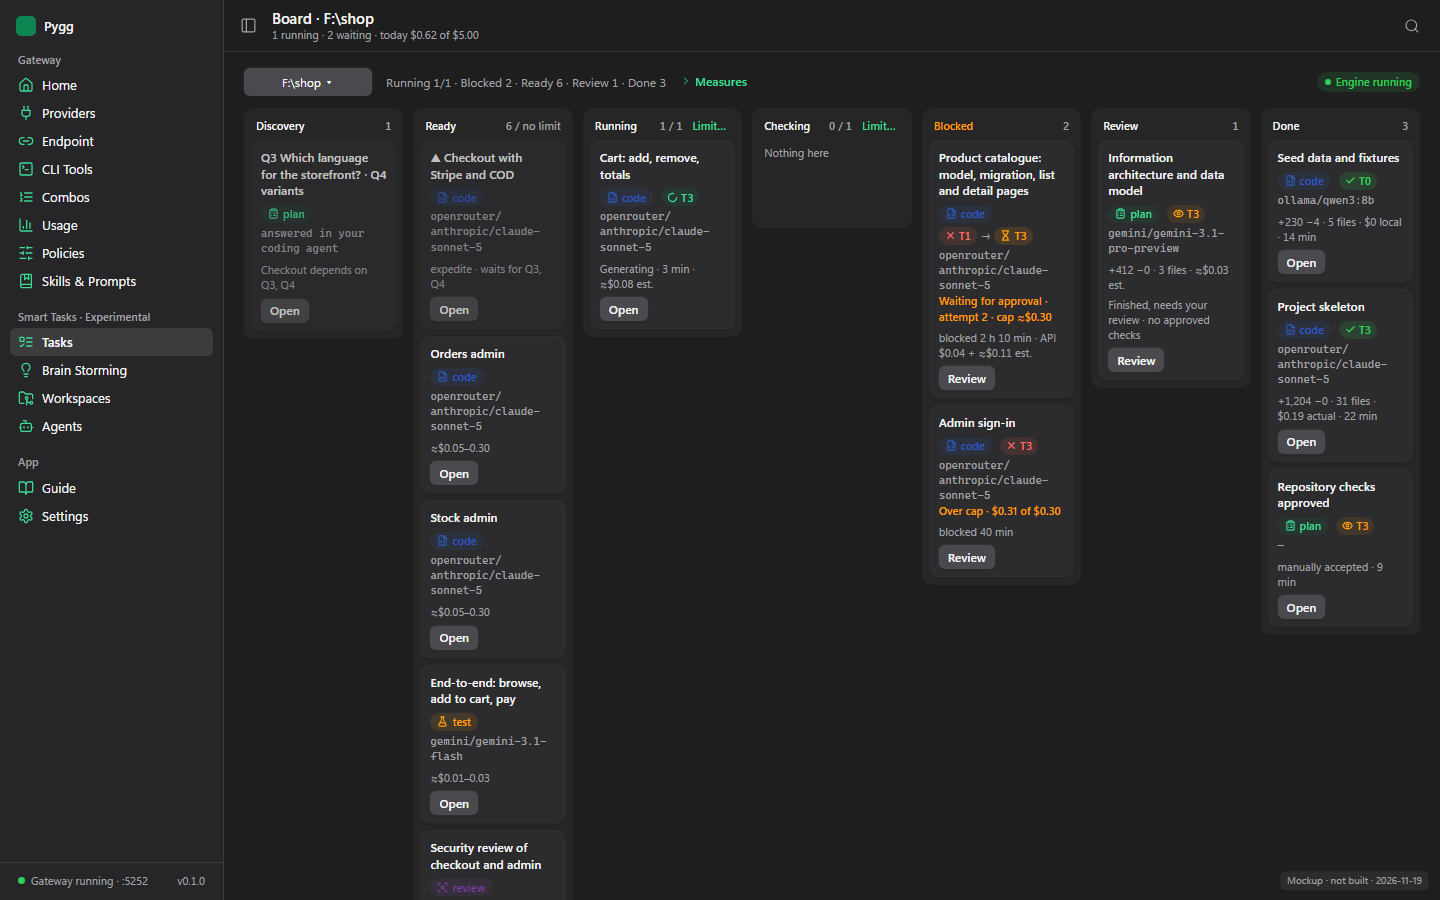
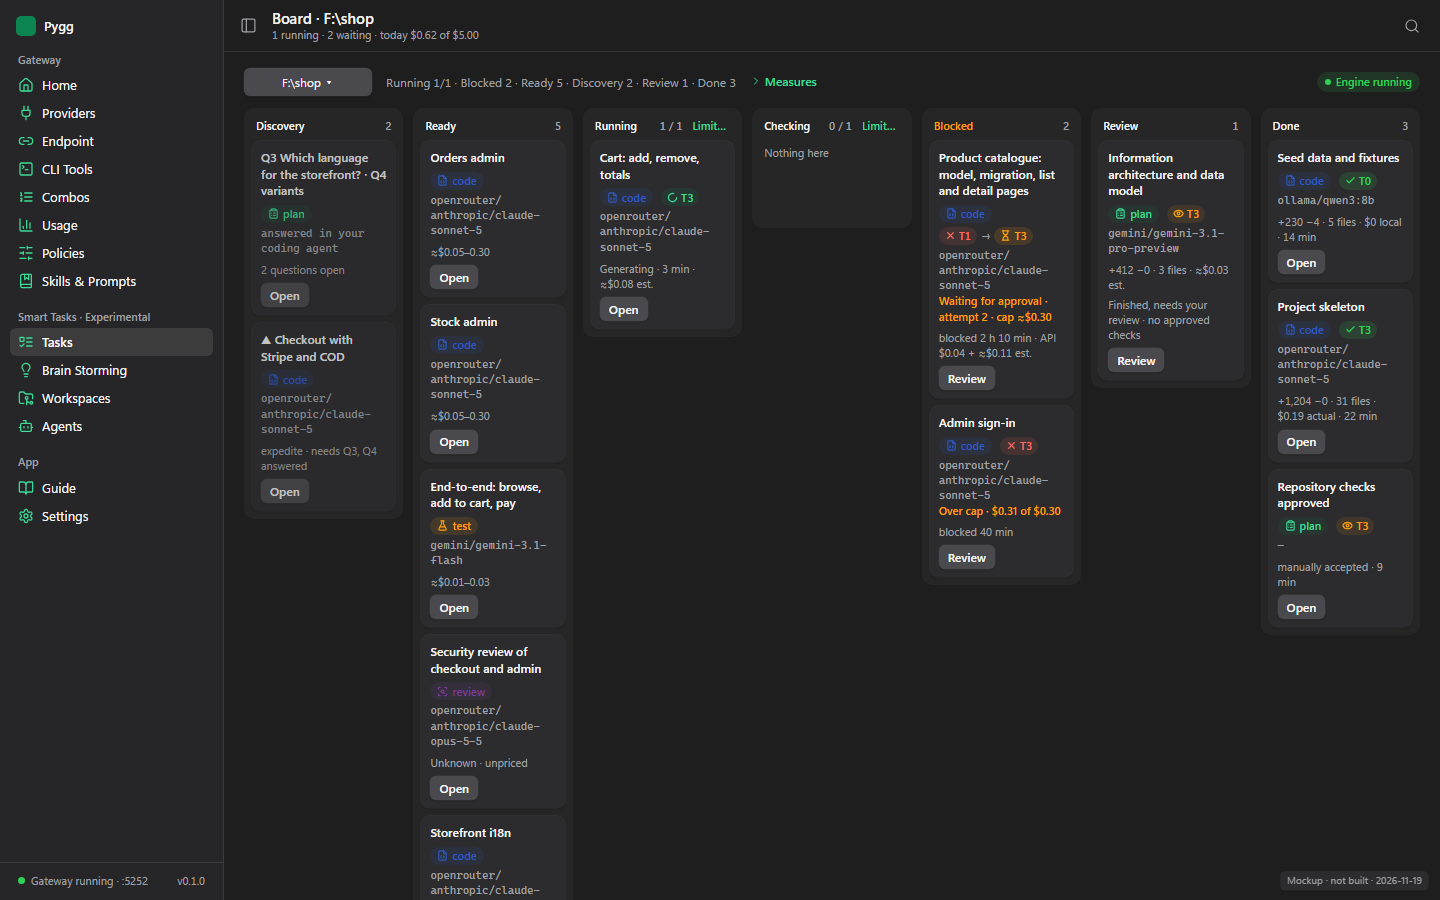
docs(brain): the feed and ranking contracts, and how the Smart Tasks screens link
After a second read-only Codex review before building: the feed file gets place, of, rank, agent, effort and licence per fact; the names map format; the builder's carry-forward of a failed source; ed25519 signing over the exact bytes with key ids and rotation; the release-asset URL on the fixed tag model-facts-v1; the kept file next to the store with its two settings keys; the order within every ranked list; what Off removes (the feed layer only); the ten-attempt own-evidence layer and the phase it fills in; the saved planner skipping the pick.

ADR-042 amended: only Running and Checking carry a WIP limit; the queue columns hold any number of cards. The board mockup moves a card that waits for an answer into Discovery.

A table of how Tasks, Workspaces, Agents and Brain Storming share their rows and which level a value comes from (owner's reminder).

diff --git a/docs/design/BRAIN.md b/docs/design/BRAIN.md
@@ -21,7 +21,11 @@ Each part is useful on its own: the feed improves `auto` and the Providers scree
 | `match` | A model line, as `gateway/tiers.rs` matches it (every part appears in the id), or `{exact: "<provider id>"}` |
 | `role` | `plan`, `code`, `test`, `review`, `image` |
 | `score` | The number the source published, unchanged, with its unit |
-| `rank` | The score's place within that source, 0 to 1, 1 the best. Comparable across sources; `score` is not |
+| `place`, `of` | The row's place in its source (1 is best; rows with the same score share a place: `place` is one more than the number of rows with a strictly better score) and the source's row count |
+| `rank` | `(of − place) / (of − 1)`, so 1 is the best and 0 the worst within that source (1 when `of` is 1). Comparable across sources; `score` is not |
+| `agent` | For Terminal-Bench and SWE-bench, the agent the row was run with (`claude-code`, `codex`, `mini-swe-agent`, …); absent elsewhere |
+| `effort` | The reasoning effort the row was run with, when the source states it (`high`, `max`, …) |
+| `licence` | The source's licence for this row (`Apache-2.0`, `CC-BY-4.0`, `CC-BY-NC-4.0`) |
 | `derived` | `true` when the role is not what the source measured (every `plan` and `review` fact; `test` until a source measures it) |
 | `source` | The source's short name, from the feed's source list |
 | `url` | Where the number was read |
@@ -61,20 +65,27 @@ model-facts/
     facts.json.sig    its signature (ed25519)
 ```
 
-- `names` maps each source's model name to a `match` or an exact provider id. It is kept by hand in the repository and reviewed in a pull request, because leaderboard names (`claude-sonnet-4.5`, `Claude Sonnet 4.5 (thinking)`) are not provider ids.
-- Built by a scheduled workflow in this repository, weekly, from the sources' published data; a build whose sources are unreachable keeps the last facts and marks them.
-- Signed with a key held in the workflow's secrets; the public key is compiled into the app. A feed that does not verify is refused and the last good one kept.
-- Published as a release asset of this repository and fetched over HTTPS. The app checks daily; the user can refresh and can turn fetching off, in which case the tier table alone is used.
+- **The names map**, `model-facts/names.json`, is kept by hand and reviewed in a pull request, because leaderboard names (`Claude 4.5 Opus (high)`, `Claude Opus 5.5 (High)`) are not provider ids. One entry per source and name: `{"<source>": {"<name as the source writes it>": {"match": ["claude", "opus-4-5"], "effort": "high"}}}`. `match` is the line as `gateway/tiers.rs` matches it: every part must appear in the connected model's id, lower-cased, after a router's vendor prefix (`openrouter/anthropic/claude-opus-4-5` matches). Terminal-Bench and Aider rows already carry a `provider/model` id, which the builder turns into `match` parts itself; the map is consulted only for the names it lists. A name the map does not know is written to the build log and left out, never guessed.
+- **Built by `scripts/model-facts.py`** in a scheduled workflow, weekly (and on demand), from the sources' published data. A source that is unreachable or no longer parses keeps its facts from the last published feed, with `observed` unchanged and the source marked `stale` in the source list; the build fails only when every source fails. The 4 MB SWE-bench file is read by the job, never by the app.
+- **Signed** with an ed25519 key: the 32-byte seed is the repository secret `MODEL_FACTS_SIGNING_KEY`, held only in GitHub Actions; the public key is a constant in the app (`gateway/facts.rs`). The signature is over the exact bytes of `facts.json` and is published beside it as `facts.json.sig` (base64). A feed that does not verify, or whose `built` is older than the one already kept, is refused and the kept one stays.
+- **Published** as the assets of one fixed pre-release tag of this repository, `model-facts-v1`, replaced on every build; the app fetches `https://github.com/nambean/Pygg/releases/download/model-facts-v1/facts.json` and its `.sig`. A `v2` of the format gets a new tag and a new app constant; `v1` stays for older apps.
+- **Kept next to the store**, like the models.dev catalog (`reference/model-facts.json`, ADR-031's pattern in `gateway/reference.rs`), with the fetch time in `settings` (`model_facts.fetched_at`), the switch in `settings` (`model_facts.enabled`, on by default), and the public GET carrying nothing about the user. The app checks once a day when the gateway starts or a screen that ranks asks; **Refresh** fetches now. **Off** removes the feed layer only: the user's own evidence and the tier still rank, and the kept file stays for when it is turned on again. Offline, the kept feed is used and its `built` date shown; the screens tell offline ("could not refresh"), stale (a `built` older than the weekly cadence) and refused (signature) apart.
+- **Keys.** The `.sig` file names its key id; the app holds the public keys it trusts by id. Rotation: a release adds the new public key, then the secret changes; the old key is dropped in a later release. A compromised key is dropped in a release and every feed signed by it is refused from then on; a feed never grants trust to a key.
+- **Attribution.** The source list carries each source's licence and the attribution line its licence asks for; the app shows the source's name and link wherever a fact is shown (SCREENS §3.2), and THIRD_PARTY_NOTICES.md lists the sources with their licences.
 
 ### Ranking in the app
 
 For a role, each connected model's line is built from three layers, each shown with its source:
 
-1. **The user's own evidence**, from the ledger: `checks_passed` and `result_kept` for that model on cards of that role (ADR-029), once ten attempts exist. This layer wins.
-2. **The feed**, the best `rank` among the role's sources, with its `derived` label.
+1. **The user's own evidence**, from the ledger: `checks_passed` and `result_kept` for that model on cards of that role (ADR-029), once ten attempts exist; the line is ordered by kept results over attempts, then checks passed over attempts. This layer wins. Until the board exists (phase 4) no attempt carries a role, so this layer is empty and the screens say "your runs: none yet".
+2. **The feed**, the best `rank` among the role's sources that are not older than twelve months, with its `derived` label. Where a source has several rows for one model (agents, efforts), the row whose agent Pygg would run and whose effort the connection sends comes first, else the best row, and the line says which row it is.
 3. **The tier** (`curated:v1` or `price-band:v1`, ADR-006, ADR-031), when nothing else is known.
 
 The interface says which layer a line comes from. A `derived` fact reads "ranked by reasoning (LMArena, 2026-11-12)", never "best for planning". A choice the user saved is kept when the feed changes; the screen shows that a newer fact exists.
+
+**Order within a list** (the role sheet, the planner pick, a role's row): first by the layer that won (own evidence, then feed, then tier); within own evidence by kept rate, then checks-passed rate; within the feed by `rank`; within the tier by tier; then by estimated cost, then by `connection/model`. No tie is asserted; equal numbers stay in that order and both are shown.
+
+**Phases and the store.** Phase 1 (the feed) adds no migration: the feed is a file next to the store, its settings two keys. Saved picks and workspace overrides (the Brain Storming screen) come with `pygg/brain` as one migration (`brain_picks`: scope `global` or a workspace id, role, `connection/model`, saved at). A role on an attempt comes with the board (`attempts.role`, nullable, never inferred for older attempts), and only then does the own-evidence layer fill.
 
 ## 2. `pygg/brain`
 
@@ -87,7 +98,7 @@ The reply is one assistant message holding:
 - the brainstorm's id and the app's link to it;
 - the clarifying questions, numbered;
 - the proposed cards, each with its role, its done criterion and the model picked;
-- what the proposal would cost at most, from the role models' prices and the last ten runs; Unknown where a price is unknown.
+- the known estimate: the sum of each card's cost range from the last ten runs of its agent and model, with the count of cards that have no price (section 4.1: never called a ceiling).
 
 A second call in the same session, with answers in the conversation, refines that brainstorm: the questions it answers close, cards change. It never starts another brainstorm; a new session does.
 
@@ -234,7 +245,7 @@ The app is read-mostly: pick, edit, approve, raise a limit, expedite, approve a 
 - **Remember this planner** (on by default; saves it as the plan role on the Brain Storming screen, 4.7b). Buttons **Decline** and **Use <connection/model>**.
 - After the pick the planner call starts; the proposal reaches the client on its next call or `wait`, and the app's row turns **Thinking**.
 - With no eligible candidate: the reasons grouped by connection, as `auto`'s 422 gives them, and nothing to click but **Decline**.
-- A free or local candidate at the top skips this state.
+- A free or local candidate at the top skips this state. So does a **saved planner**, paid or not: the pick is asked only when nothing is saved and the rule's pick is paid. A saved planner that is no longer eligible brings the state back, with the reason.
 
 **Questions:** a read-only list, each **open** or **answered** with the answer, who answered (the client) and when. The caption says answers come from the coding agent. A card that depends on an open question shows a lock.
 
@@ -256,7 +267,7 @@ Used by the planner pick, a card's **Change…**, and a model's facts on Provide
 - Header: `Models for code · facts as of 2026-11-18 · Refresh`, search, and **Eligible under my policy** / **All connections**.
 - One row per model: `connection/model · tier · billing · ≈$ range`, then **one evidence line**, the layer that won: `your runs 8/10 kept · 9/10 checks passed`, or `Terminal-Bench 4.0 #3 of 73 · 61.2% ±3.1 · 2026-06-30`, or `LMArena hard prompts #5 · derived · 2026-11-18`, or `tier only`. A source's name links to its URL.
 - **Why this model?** on a row opens a disclosure: the chain `your saved pick › your runs (10+ attempts) › facts feed › tier`, with the layer that won marked; every other source line with its date, CI or sample, and a one-line statement of what it measures and does not ("Terminal-Bench: tasks solved in a terminal with an agent, not your repository"); a fact older than twelve months, shown and marked as not ranking.
-- Sorted by the winning layer, then cost. Uncertainty is shown as the source publishes it; the sheet asserts no tie and changes no rule.
+- Sorted as section 1 says: the winning layer, then that layer's measure, then cost, then the id. Uncertainty is shown as the source publishes it; the sheet asserts no tie and changes no rule.
 - Below a rule, **Not eligible** with each model's reason, as `auto` gives them.
 - States: no feed yet or fetching off ("ranked by tier; facts off" with **Turn on**); a stale cached feed (its date, and "could not refresh" when a refresh failed); no match for the search; no eligible model; a saved pick whose model is no longer eligible (kept, marked, a new pick needed).
 - Stress: 40 rows with 90-character ids and long localised labels; ids wrap, actions stack under the row at 683 px.
@@ -266,10 +277,10 @@ Used by the planner pick, a card's **Change…**, and a model's facts on Provide
 One board per workspace, a workspace switcher when there are several. Reached from the Tasks list or a brainstorm's **Open Board**.
 
 - **Header:** workspace; `Running 1/1 · Blocked 2 · Ready 6 · Done 3`; **Measures** as a disclosure (cycle time median, cards done today, time blocked today, known money per kept result, each with its source), shown only once five cards are done; the engine's state and **Start** beside the controls when it is stopped, in place, not a banner (SCREENS §1).
-- **Columns:** the seven of ADR-042, each header `name · count/limit` with **Limit…**; defaults Running 1, Checking 1, the others none. A limit can be raised or set, never removed from Running.
+- **Columns:** the seven of ADR-042. Running and Checking show `count/limit` with **Limit…**, default 1, raised but never removed; the queue columns show their count. A card that depends on an unanswered question sits in **Discovery** (ADR-042), never in Ready.
 - **Card:** title, role chip, `connection/model` (wraps; the full id and everything else in the card's detail), the attempt sequence chips, elapsed time or cost so far, ▲ for expedite; in Review and Done, `+42 −18 · 6 files`. Blocked cards carry the reason word (Waiting for approval, Over cap, Over budget, Interrupted, Needs an answer, Waiting for your agent) and `blocked 2 h 10 min`. One button per card, from its state: **Review** in Blocked and Review, **Open** elsewhere.
 - **Moves by button, not drag:** **Expedite**, **Send back to Discovery**, **Drop** (confirmed). Running, Checking, Review and Done are the engine's. Buttons name exactly what is allowed; a drag target the engine refuses would teach the wrong model.
-- **Opening a card** opens task detail (SCREENS §5.2) with `‹ Board`.
+- **Opening a card** opens task detail (SCREENS §5.2) with `‹ Board`; a cost on a card is the task's cost line, and its source (ledger, the agent's estimate, unknown) is in that detail, as today.
 - **Dependencies:** a card whose prerequisite was dropped shows **Needs an answer** in Blocked with the missing card named; a cycle the planner produced is refused at parse time, so the board never holds one.
 - **Width:** when seven readable columns do not fit the content area (the sidebar takes 224 px; at a 1024 px window that leaves about 114 px per column), the board becomes one list grouped by column, Blocked first, with every action a button. The switch is by available width, not window width, so it holds with the sidebar open and at Windows text scaling (819 and 683 px).
 - **States:** no board yet ("Brainstorms start from your coding agent: ask it to use pygg/brain"); load error with **Try Again**; the engine stopped; a workspace removed (the board is kept read-only, with the reason).
@@ -290,6 +301,21 @@ A screen of its own in the Smart Tasks group (owner, 2026-11-19), so the picks a
 - **Projects that differ:** the workspaces with an override (which roles and limits), **Edit…** and **Use defaults**; other workspaces offer **Override…**. An override holds only what differs.
 - **How it starts:** the reminder that a brainstorm starts from the coding agent with the model `pygg/brain`, with the one-line command per agent. No text box.
 - **States:** no connected model for a role ("nothing eligible for code: connect a provider or loosen the policy"); a saved model no longer eligible (kept, marked, with the reason); facts off (every role row reads "by tier"); stress at 683 px with 90-character ids wrapping under the role chip.
+
+### 4.7c How Tasks, Workspaces, Agents and Brain Storming link
+
+The four screens of the Smart Tasks group share one set of rows; nothing is stored twice.
+
+| From | To | The link |
+| --- | --- | --- |
+| Brain Storming → Tasks | A brainstorm is a row under Tasks (4.3); approving it turns each card into a task row (`tasks.brainstorm_id`, `tasks.card_role`) and the workspace's board (4.6) is those tasks grouped by state | The screen never lists brainstorms itself; **How it starts** points at Tasks |
+| Brain Storming → Workspaces | **Projects that differ** lists workspaces by their `workspaces` row; **Override…** writes `brain_picks` rows scoped to that workspace and nothing else; **Use defaults** deletes them | A workspace row on Workspaces shows "Brain: uses defaults" or "Brain: overrides code, Running 2" with **Edit…** opening the same sheet |
+| Workspaces → the board | A board exists per workspace that has at least one card; the workspace's **approved checks** are every card's definition of Done (ADR-007), its **paid steps per day** and **privacy** apply to every card, and removing the workspace freezes its board read-only | The Workspaces badge counts, as today, workspaces whose checks wait for review; a board with no approved checks sends every card to Review unverified, and the workspace row says so |
+| Tasks → Workspaces | A task row names its workspace; a brainstorm from an IDE carries the repository, which Workspaces adds by itself (SCREENS §5.3) | The **Board** entry in the Tasks filter opens the board of the task list's workspace, or a switcher when there are several |
+| Agents → a card's runner | A card run by the engine runs one of the installed agent CLIs (ADR-026) with the card's model when that agent is pointed at the gateway; the agent for a role is the Brain Storming default (one per role, from the agents Agents lists as installed) | A role whose agent is not installed shows "no agent for code: install one on Agents" on the Brain Storming row, and approval refuses such cards |
+| Settings → budgets | The daily task budget and per-workspace budget stay where they are (Settings, Workspaces); the Brain Storming screen only reads them in the approval line | — |
+
+Precedence for anything that exists at two levels (picks, WIP limits, runner): the workspace's override, then the Brain Storming default, then the rules. A screen always says which level a value came from.
 
 ### 4.8 What the IDE agent reads
 

diff --git a/docs/DECISIONS.md b/docs/DECISIONS.md
@@ -435,7 +435,7 @@ Each `pygg run` launch is kept with what changed in Git (`launches`, schema v38)
 
 **Decision:** An approved brainstorm becomes the **board** of a workspace (a Git repository, ADR-008). Kanban is applied strictly, because every card costs money.
 - **Columns, fixed:** Discovery, Ready, Running, Checking, Blocked, Review, Done. A card is a task: a ladder of steps on the card's role model (AGENTS.md).
-- **Pull, never push.** A card enters Running only when Running has room. Each column has a **WIP limit**; Running's default is 1. The user may raise a limit, never remove it. The limit is the spending control the user can see: at most that many paid steps are in flight.
+- **Pull, never push.** A card enters Running only when Running has room. The working columns, **Running** and **Checking**, each have a **WIP limit**, default 1, which the user may raise and never remove; the queue columns (Discovery, Ready, Review, Done) hold any number of cards. The limit is the spending control the user can see: at most that many paid steps are in flight. (Amended 2026-11-19 from "each column has a limit": a limit on a queue would only hide cards.)
 - **Leaving a column is defined**, not judged: Running to Checking when the agent ends; Checking to Review when the approved checks pass (ADR-007), to Blocked when the ladder's last step fails; Review to Done on Keep as Branch (ADR-009). Without approved checks a card leaves Checking only for Review, marked unverified.
 - **Blocked is a column**, pinned: waiting for approval, over the cap or the budget, interrupted, or depending on a question nobody answered.
 - **Discovery holds the questions** as cards; a card that depends on an unanswered question cannot enter Ready. Answers come from the client through `pygg/brain` (ADR-041), never typed into the app.
